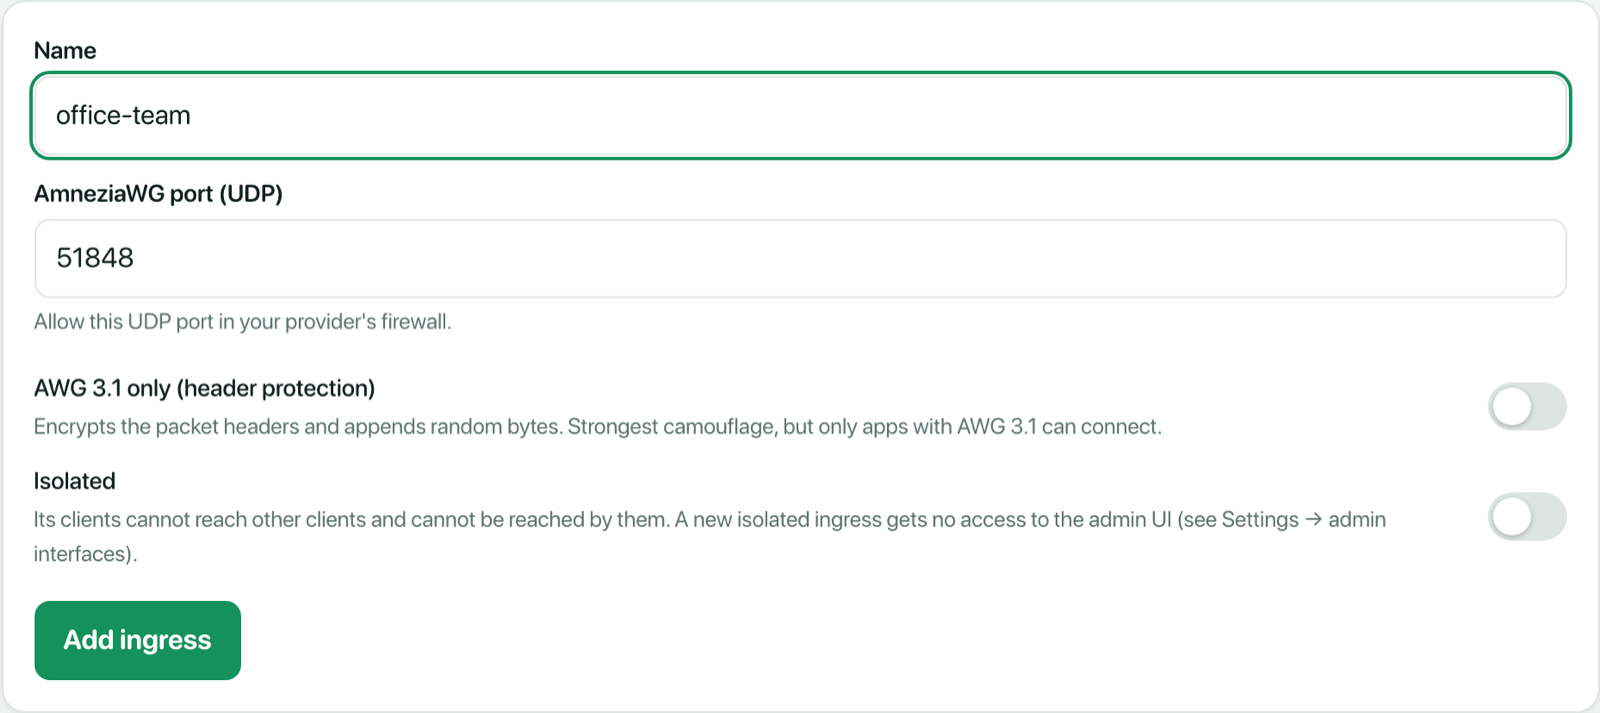
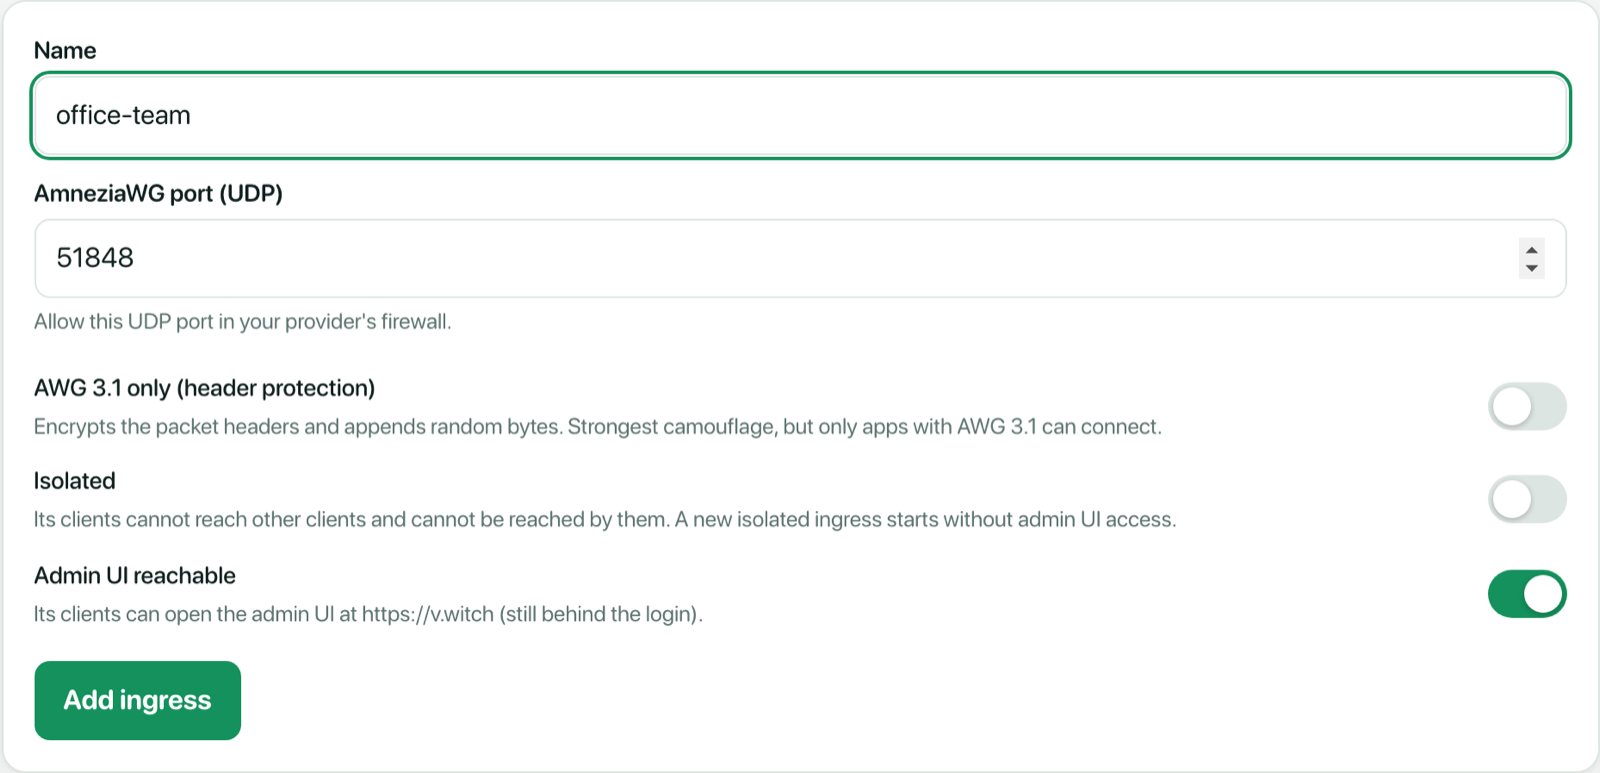
docs: admin switch per ingress, block feedback and traffic bars

diff --git a/docs/ingresses.md b/docs/ingresses.md
@@ -41,6 +41,9 @@ Open **Ingresses** in the admin UI and fill in the form at the bottom:
 3. **AWG 3.1 only (header protection)** (optional): see
    [Camouflage](#camouflage) below.
 4. **Isolated** (optional): see [Isolation](#isolation) below.
+5. **Admin UI reachable**: whether its clients may open the admin UI at
+   https://v.witch (always behind the login). On by default; turning on
+   *Isolated* turns it off, but you can switch it back on.
 
 vwitch generates fresh, random camouflage parameters for every new ingress,
 creates its interface and starts listening right away.
@@ -59,6 +62,7 @@ Expand **Options** on an ingress to change it:
 | --- | --- | --- |
 | **AmneziaWG port (UDP)** | The UDP port of this ingress. | Yes |
 | **Isolated** | See [Isolation](#isolation). | No |
+| **Admin UI reachable** | Its clients can open the admin UI at https://v.witch (still behind the login). | No |
 | **AmneziaWG 3.1 for new clients** | New clients of this ingress get configs with the AmneziaWG 3.1 lines. Turn it off if most of its clients use apps without AWG 3.1 support. You can still choose per client. | No (only affects new clients) |
 | **Random padding** | Data packets get a random length instead of a multiple of 16 bytes. The padding sits inside the encryption. Clients with AWG 3.1 pad their own packets too. Works with every client. | No |
 | **No cookie replies** | Under load the server never sends WireGuard's recognisable cookie packets. Works with every client. Downside: less protection against handshake floods. | No |
@@ -134,6 +138,7 @@ vwitch ingress add travel --strict               # next free port, AWG 3.1 only
 vwitch ingress add guests --port 51847 --isolated
 vwitch ingress set travel --port 51850           # clients need new configs
 vwitch ingress set default --cookies=false       # no cookie replies
+vwitch ingress set guests --admin=false          # no admin UI for its clients
 vwitch ingress rm guests                         # only without clients
 ```
 
@@ -145,6 +150,7 @@ vwitch ingress rm guests                         # only without clients
 | `--padding` | Random padding of data packets. |
 | `--cookies` | Send cookie replies under load. `--cookies=false` turns them off. |
 | `--new-clients-awg3` | New clients get the AWG 3.1 config by default. |
+| `--admin` | Its clients may open the admin UI. Default for `add`: on, unless `--isolated`. `--admin=false` turns it off. |
 
 With `set`, only the flags you pass change. To choose or change a client's
 ingress:

diff --git a/docs/blocking.md b/docs/blocking.md
@@ -39,6 +39,11 @@ the regional internet registries publish (about 46 MB, once), keeps a compact
 copy on the server and refreshes it weekly. Connections that already exist keep
 working. Private and special-purpose address ranges are never filtered.
 
+A blocked outgoing connection fails right away instead of hanging: TCP
+connections get a reset, other protocols an "administratively prohibited"
+message. Apps and browsers show an error immediately rather than waiting for
+a timeout.
+
 > **Careful with "Allow only" and incoming connections.** It also locks out
 > SSH and the VPN from every other country, including yours when you travel.
 > The page shows a warning while this combination is selected.
@@ -54,10 +59,13 @@ vwitch set regions.enabled true
 
 The log at the bottom shows the latest blocked lookups and connections: time,
 type (**DNS**, **↑** outgoing, **↓** incoming), target with country flag,
-client and the rule that matched (*Domain list* or *Regions*). Filter with
+client and the rule that matched (*Domain list* or *Regions*). For a blocked
+outgoing connection, the domain the client looked up is shown under the
+address, so you can see which site was affected (taken from vwitch's DNS
+answers of the last hour). Filter with
 **All**, **Connections** and **Domains**. The log keeps the last 1000 entries
 in memory and refreshes every few seconds.
 
 ```sh
-vwitch block log
+vwitch block log      # the domain follows the country for outgoing connections
 ```

diff --git a/docs/activity.md b/docs/activity.md
@@ -8,13 +8,17 @@ websites they look up.
 ## Traffic
 
 The graph shows download and upload for the last hour, day, week or month.
+Red bars along the bottom show blocked lookups and connections (legend
+**blocked**); hover a point to see how many, for example *6 blocked*.
 vwitch samples the counters every 10 seconds and keeps the history on the
 server (`/var/lib/vwitch/traffic.json`), so it survives restarts.
 
 ## Clients
 
 Below the graph, every client with its share of the total, a small graph, and
-its download and upload for the chosen range. Click a client to filter the
+its download and upload for the chosen range. Its small graph shows its own
+blocked lookups and outgoing connections as red bars too. Blocked incoming
+connections belong to no client and count only toward the total. Click a client to filter the
 whole page to it; click it again to show all clients.
 
 ## Domains (last 24 h)
@@ -24,6 +28,9 @@ The domains clients looked up during the last 24 hours, grouped by site:
 how often it was looked up, by which clients, and when last.
 
 - **blocked** marks domains on the [blocking](blocking.md) list.
+- **🇽🇽 country blocked** marks a domain whose address the country filter
+  blocked; the tooltip names the country. The lookup worked, but the
+  connection to that country did not.
 - **→ home** marks domains that a [route](routes.md) sends through an egress.
 - Use the search field and the client filter to find something quickly.
 

diff --git a/docs/settings.md b/docs/settings.md
@@ -46,7 +46,7 @@ In every case vwitch returns to an egress by itself as soon as one recovers.
 | --- | --- | --- |
 | **Public address of this server** | Hostname or IP that goes into client configs. Changing it makes all client configs outdated. | `endpoint` |
 | **Public DNS resolver** | Where vwitch forwards client DNS lookups, through each client's own egress. Default `9.9.9.9`. | `resolver` |
-| **Interfaces allowed to reach this admin page** | Default `lo, awg0`: the server itself and every VPN client of the first ingress. With an overlay VPN such as NetBird, add `wt0`. Removing the interface you are connected through locks you out. | `admin_interfaces` |
+| **Interfaces allowed to reach this admin page** | Default `lo, awg0`: the server itself and every VPN client of the first ingress. Ingress interfaces (`awg0`, `awg1`, …) are added and removed by the *Admin UI reachable* switch of each [ingress](ingresses.md#change-an-ingress), so you rarely edit them here. Add other interfaces yourself, for example `wt0` for an overlay VPN such as NetBird. Removing the interface you are connected through locks you out. | `admin_interfaces` |
 | **Allow SSH only on these interfaces** | Once the overlay interface (for example `wt0`) is up, SSH is only accepted on the admin interfaces. SSH is never opened to VPN clients. | `lockdown_ssh` |
 
 The ports of the ingresses are set on the [Ingresses](ingresses.md) page.

diff --git a/docs/clients.md b/docs/clients.md
@@ -53,7 +53,8 @@ Click a client to open its page:
 
 - **Top**: where its traffic goes right now and why (for example *First
   working egress in the order*).
-- **Traffic**: its download and upload over time. *Domains and details* opens
+- **Traffic**: its download and upload over time, with its blocked lookups
+  and connections as red bars. *Domains and details* opens
   [Activity](activity.md) filtered to this client.
 - **Active**: inactive clients cannot connect, but keep their config.
 - **Connection**:

diff --git a/docs/overview.md b/docs/overview.md
@@ -27,7 +27,8 @@ From the command line: `vwitch killswitch on|off` and `vwitch fast on|off`.
 ## Traffic
 
 Download and upload of all clients together, for the last hour, day, week or
-month. **Activity per client** opens the [Activity](activity.md) page.
+month. Red bars along the bottom show blocked lookups and connections; see
+[Blocking](blocking.md). **Activity per client** opens the [Activity](activity.md) page.
 
 ## Egresses
 
